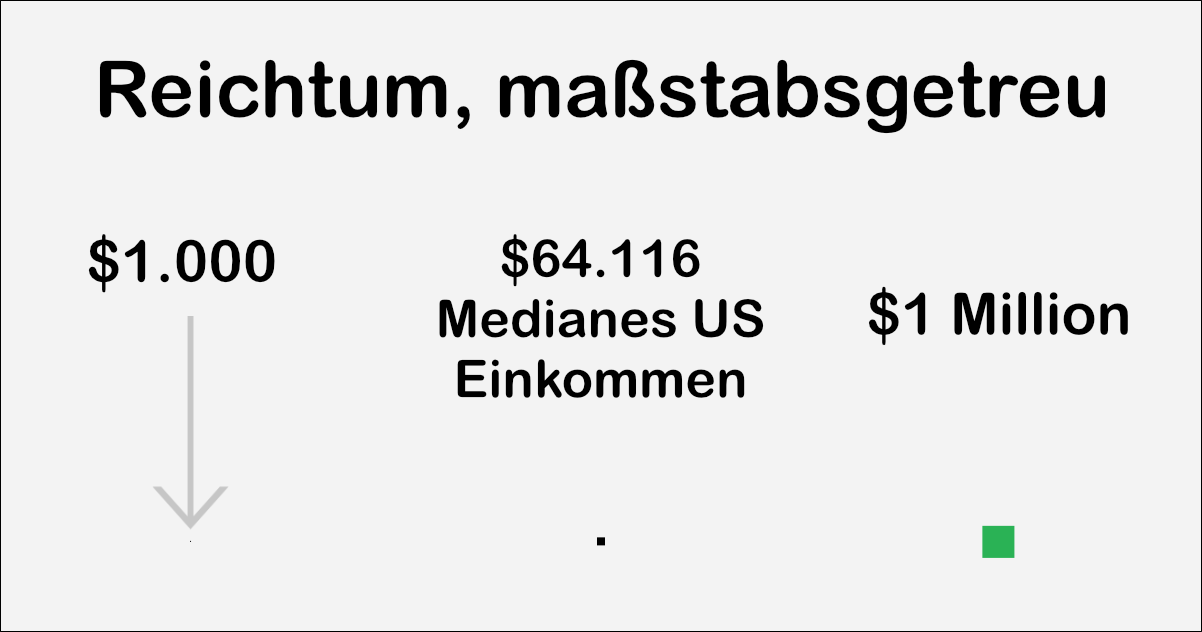
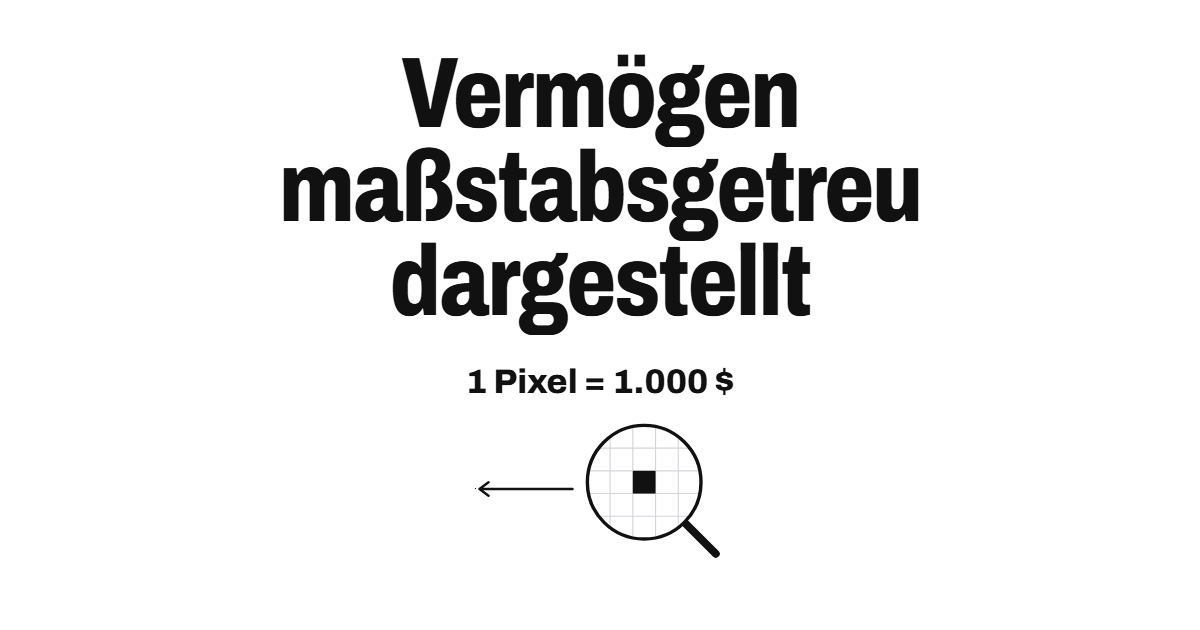
Rename to pixel-wealth, replace Google Analytics, add privacy pages
- Use the new address evolving-thoughts.github.io/pixel-wealth in the
  canonical, Open Graph and Twitter tags, package name and user agent.
- New preview images in the current look (title, 1 pixel = $1,000, lens),
  with matching alt texts.
- Replace Google Analytics, which set cookies without consent, with
  cookieless GoatCounter on the main and sources pages.
- Add privacy pages (privacy.html, de/datenschutz.html), linked from the
  start screen and the sources page. Name and email are still placeholders.
- Rewrite the README: live link, credit, current features and structure,
  notes on the fixed Forbes data and the sources page.

diff --git a/de/datenschutz.html b/de/datenschutz.html
@@ -1,0 +1,43 @@
+<!DOCTYPE html>
+<html lang="de">
+<head>
+  <meta charset="utf-8">
+  <script data-goatcounter="https://evolving-thoughts.goatcounter.com/count" async src="https://gc.zgo.at/count.js"></script>
+  <title>Datenschutz · Reichtum, maßstabsgetreu</title>
+  <meta name="description" content="Datenschutzerklärung von „Reichtum, maßstabsgetreu“." />
+  <meta name="viewport" content="width=device-width, initial-scale=1" />
+  <meta name="robots" content="noindex" />
+  <script>(function(){var t=null;try{t=localStorage.getItem('theme')}catch(e){}if(t!=='dark'&&t!=='light')t=window.matchMedia&&matchMedia('(prefers-color-scheme: dark)').matches?'dark':'light';document.documentElement.setAttribute('data-theme',t)})();</script>
+  <link rel="stylesheet" type="text/css" href="../main.css?version=3.0">
+</head>
+<body class="sources-page">
+<main class="sources privacy">
+  <a class="sources-back" href="./">‹ Zurück zur Seite</a>
+  <h1>Datenschutz</h1>
+
+  <p class="privacy-lead">Kurz gesagt: Diese Seite setzt keine Cookies und erstellt keine Profile. Sie zählt nur, wie oft sie aufgerufen wird, ohne einzelne Besucher wiederzuerkennen.</p>
+
+  <h2 class="sources-h">Verantwortlich</h2>
+  <p>[Name]<br>E-Mail: [E-Mail-Adresse]</p>
+
+  <h2 class="sources-h">Hosting</h2>
+  <p>Die Seite liegt bei GitHub Pages, einem Dienst von GitHub B.V. (Prins Bernhardplein 200, 1097 JB Amsterdam, Niederlande) und GitHub, Inc. (San Francisco, USA). Wenn du die Seite aufrufst, protokolliert GitHub nach eigenen Angaben deine IP-Adresse und speichert sie aus Sicherheitsgründen. Rechtsgrundlage ist das berechtigte Interesse an einem sicheren Betrieb der Seite (Art. 6 Abs. 1 lit. f DSGVO). Daten können dabei in die USA übermittelt werden; GitHub ist dafür nach dem EU-US Data Privacy Framework zertifiziert. Mehr dazu in der <a href="https://docs.github.com/de/site-policy/privacy-policies/github-general-privacy-statement" target="_blank" rel="noopener noreferrer">Datenschutzerklärung von GitHub</a>.</p>
+
+  <h2 class="sources-h">Besucherzählung</h2>
+  <p>Um zu sehen, wie oft die Seite gelesen wird, nutzt sie GoatCounter. Der Dienst wird von Martin Tournoij (Irland) betrieben, die Daten liegen auf Servern von Hetzner in Finnland und Deutschland.</p>
+  <p>Erfasst werden die aufgerufene Seite, die Seite, von der du kommst, Browser und Betriebssystem, Bildschirmbreite, Sprache und das Land, das aus der IP-Adresse abgeleitet wird. GoatCounter speichert keine IP-Adressen, setzt keine Cookies und legt nichts in deinem Browser ab. Um wiederholte Aufrufe zu erkennen, werden Seitenname, IP-Adresse und Browserkennung höchstens 8 Stunden lang im Arbeitsspeicher abgeglichen und nicht dauerhaft gespeichert. Gespeichert werden nur zusammengefasste Zahlen pro Stunde und Tag. Die Daten werden nicht an Dritte weitergegeben.</p>
+  <p>Rechtsgrundlage ist das berechtigte Interesse zu erfahren, wie oft die Seite gelesen und wo sie geteilt wird (Art. 6 Abs. 1 lit. f DSGVO). Mehr dazu in der <a href="https://www.goatcounter.com/help/privacy" target="_blank" rel="noopener noreferrer">Datenschutzerklärung von GoatCounter</a>.</p>
+
+  <h2 class="sources-h">In deinem Browser gespeichert</h2>
+  <p>Wenn du die Sprache oder den Darkmode umstellst, merkt sich die Seite deine Wahl im Speicher deines Browsers (localStorage). Diese Angabe bleibt auf deinem Gerät und wird nicht übertragen. Sie ist nötig, damit die von dir gewählte Einstellung funktioniert (§ 25 Abs. 2 Nr. 2 TDDDG). Du kannst sie jederzeit löschen, indem du die Websitedaten in deinem Browser löschst.</p>
+
+  <h2 class="sources-h">Schrift und Links</h2>
+  <p>Die Schrift liegt auf demselben Server wie die Seite; es gibt keine Verbindung zu Google Fonts oder ähnlichen Diensten. Die Quellenlinks führen zu anderen Websites. Erst wenn du einen davon anklickst, verbindest du dich mit dieser Website, und es gelten deren Datenschutzbestimmungen.</p>
+
+  <h2 class="sources-h">Deine Rechte</h2>
+  <p>Du hast das Recht auf Auskunft, Berichtigung, Löschung und Einschränkung der Verarbeitung deiner Daten sowie das Recht, der Verarbeitung zu widersprechen (Art. 15 bis 21 DSGVO). Wende dich dafür an die oben genannte E-Mail-Adresse. Außerdem kannst du dich bei einer Datenschutz-Aufsichtsbehörde beschweren (Art. 77 DSGVO).</p>
+
+  <p class="sources-calc">Stand: November 2026</p>
+</main>
+</body>
+</html>

diff --git a/privacy.html b/privacy.html
@@ -1,0 +1,43 @@
+<!DOCTYPE html>
+<html lang="en">
+<head>
+  <meta charset="utf-8">
+  <script data-goatcounter="https://evolving-thoughts.goatcounter.com/count" async src="https://gc.zgo.at/count.js"></script>
+  <title>Privacy · Wealth shown to scale</title>
+  <meta name="description" content="Privacy policy of Wealth shown to scale." />
+  <meta name="viewport" content="width=device-width, initial-scale=1" />
+  <meta name="robots" content="noindex" />
+  <script>(function(){var t=null;try{t=localStorage.getItem('theme')}catch(e){}if(t!=='dark'&&t!=='light')t=window.matchMedia&&matchMedia('(prefers-color-scheme: dark)').matches?'dark':'light';document.documentElement.setAttribute('data-theme',t)})();</script>
+  <link rel="stylesheet" type="text/css" href="main.css?version=3.0">
+</head>
+<body class="sources-page">
+<main class="sources privacy">
+  <a class="sources-back" href="./">‹ Back to the page</a>
+  <h1>Privacy</h1>
+
+  <p class="privacy-lead">In short: this page sets no cookies and builds no profiles. It only counts how often it is viewed, without recognising individual visitors.</p>
+
+  <h2 class="sources-h">Responsible</h2>
+  <p>[Name]<br>Email: [email address]</p>
+
+  <h2 class="sources-h">Hosting</h2>
+  <p>The page is hosted on GitHub Pages, a service of GitHub B.V. (Prins Bernhardplein 200, 1097 JB Amsterdam, Netherlands) and GitHub, Inc. (San Francisco, USA). When you visit the page, GitHub says it logs and stores your IP address for security purposes. The legal basis is the legitimate interest in running the page securely (Art. 6(1)(f) GDPR). Data may be transferred to the USA; GitHub is certified under the EU-U.S. Data Privacy Framework for this. More in <a href="https://docs.github.com/en/site-policy/privacy-policies/github-general-privacy-statement" target="_blank" rel="noopener noreferrer">GitHub's privacy statement</a>.</p>
+
+  <h2 class="sources-h">Visitor count</h2>
+  <p>To see how often the page is read, it uses GoatCounter. The service is run by Martin Tournoij (Ireland); the data is stored on Hetzner servers in Finland and Germany.</p>
+  <p>It records the page viewed, the page you came from, browser and operating system, screen width, language, and the country derived from the IP address. GoatCounter does not store IP addresses, sets no cookies and stores nothing in your browser. To recognise repeat views, the site name, IP address and browser identifier are compared in memory for at most 8 hours and are not stored permanently. Only aggregated counts per hour and day are stored. The data is not shared with third parties.</p>
+  <p>The legal basis is the legitimate interest in knowing how often the page is read and where it is shared (Art. 6(1)(f) GDPR). More in <a href="https://www.goatcounter.com/help/privacy" target="_blank" rel="noopener noreferrer">GoatCounter's privacy policy</a>.</p>
+
+  <h2 class="sources-h">Stored in your browser</h2>
+  <p>If you change the language or dark mode, the page remembers your choice in your browser's storage (localStorage). It stays on your device and is never sent anywhere. It is needed for the setting you chose to work (Section 25(2) no. 2 TDDDG). You can delete it at any time by clearing the site data in your browser.</p>
+
+  <h2 class="sources-h">Font and links</h2>
+  <p>The font is served from the same server as the page; there is no connection to Google Fonts or similar services. The source links lead to other websites. Only when you click one do you connect to that website, and its privacy policy applies.</p>
+
+  <h2 class="sources-h">Your rights</h2>
+  <p>You have the right to access, rectify, erase and restrict the processing of your data, and to object to the processing (Art. 15 to 21 GDPR). Contact the email address above. You can also lodge a complaint with a data protection authority (Art. 77 GDPR).</p>
+
+  <p class="sources-calc">As of November 2026</p>
+</main>
+</body>
+</html>

diff --git a/index.html b/index.html
@@ -2,31 +2,24 @@
 <html lang="en">
 <head>
   <meta charset="utf-8">
-  <!-- Google tag (gtag.js) -->
-  <script async src="https://www.googletagmanager.com/gtag/js?id=G-FFHH9GQTXY"></script>
-  <script>
-    window.dataLayer = window.dataLayer || [];
-    function gtag(){dataLayer.push(arguments);}
-    gtag('js', new Date());
-
-    gtag('config', 'G-FFHH9GQTXY');
-  </script>
+  <!-- Visitor count without cookies (GoatCounter) -->
+  <script data-goatcounter="https://evolving-thoughts.goatcounter.com/count" async src="https://gc.zgo.at/count.js"></script>
 
   <title>Wealth, shown to scale</title>
   <meta name="description" content="Global wealth inequality visualized at true scale." />
 
   <meta property="og:title" content="Wealth, shown to scale" />
   <meta property="og:type" content="website" />
-  <meta property="og:url" content="https://evolving-thoughts.github.io/1-pixel-wealth/" />
+  <meta property="og:url" content="https://evolving-thoughts.github.io/pixel-wealth/" />
   <meta property="og:description" content="Global wealth inequality visualized at true scale." />
-  <meta property="og:image" content="https://evolving-thoughts.github.io/1-pixel-wealth/img/og_english.png" />
+  <meta property="og:image" content="https://evolving-thoughts.github.io/pixel-wealth/img/og_english.png" />
   <meta property="og:image:width" content="1200" />
   <meta property="og:image:height" content="630" />
   <meta property="og:image:type" content="image/png" />
-  <meta property="og:image:alt" content="Wealth shown to scale: $1,000, $64,116 median US income, and $1 million compared visually" />
+  <meta property="og:image:alt" content="Wealth shown to scale: 1 pixel = $1,000. A magnifying glass shows a single pixel." />
   <meta name="twitter:card" content="summary_large_image" />
-  <meta name="twitter:image" content="https://evolving-thoughts.github.io/1-pixel-wealth/img/og_english.png" />
-  <link rel="canonical" href="https://evolving-thoughts.github.io/1-pixel-wealth/" />
+  <meta name="twitter:image" content="https://evolving-thoughts.github.io/pixel-wealth/img/og_english.png" />
+  <link rel="canonical" href="https://evolving-thoughts.github.io/pixel-wealth/" />
 
   <script>(function(){var t=null;try{t=localStorage.getItem('theme')}catch(e){}if(t!=='dark'&&t!=='light')t=window.matchMedia&&matchMedia('(prefers-color-scheme: dark)').matches?'dark':'light';document.documentElement.setAttribute('data-theme',t)})();</script>
   <link rel="stylesheet" type="text/css" href="main.css?version=3.0">
@@ -55,7 +48,7 @@
           <svg width="24" height="96" viewBox="0 0 24 96" aria-hidden="true"><path d="M12 0v93M2 83l10 10 10-10" fill="none" stroke="currentColor" stroke-width="2"/></svg>
           <span class="i18n-scroll">scroll</span>
         </div>
-        <p class="inspired-by i18n-inspired-by">inspired by <a href="https://github.com/mkorostoff" target="_blank" rel="noopener noreferrer">mkorostoff</a></p>
+        <p class="inspired-by i18n-inspired-by">inspired by <a href="https://github.com/mkorostoff" target="_blank" rel="noopener noreferrer">mkorostoff</a> · <a href="privacy.html">Privacy</a></p>
       </div>
 
       <!-- Calibration: amount large, description small, equal gaps -->

diff --git a/de/index.html b/de/index.html
@@ -2,30 +2,23 @@
 <html lang="de">
 <head>
   <meta charset="utf-8">
-  <!-- Google tag (gtag.js) -->
-  <script async src="https://www.googletagmanager.com/gtag/js?id=G-FFHH9GQTXY"></script>
-  <script>
-    window.dataLayer = window.dataLayer || [];
-    function gtag(){dataLayer.push(arguments);}
-    gtag('js', new Date());
-
-    gtag('config', 'G-FFHH9GQTXY');
-  </script>
+  <!-- Visitor count without cookies (GoatCounter) -->
+  <script data-goatcounter="https://evolving-thoughts.goatcounter.com/count" async src="https://gc.zgo.at/count.js"></script>
   <title>Reichtum, maßstabsgetreu</title>
   <meta name="description" content="Eine maßstabsgetreue Visualisierung globaler Vermögensungleichheit." />
 
   <meta property="og:title" content="Reichtum, maßstabsgetreu" />
   <meta property="og:type" content="website" />
-  <meta property="og:url" content="https://evolving-thoughts.github.io/1-pixel-wealth/de/" />
+  <meta property="og:url" content="https://evolving-thoughts.github.io/pixel-wealth/de/" />
   <meta property="og:description" content="Eine maßstabsgetreue Visualisierung globaler Vermögensungleichheit." />
-  <meta property="og:image" content="https://evolving-thoughts.github.io/1-pixel-wealth/de/img/og_german.png" />
+  <meta property="og:image" content="https://evolving-thoughts.github.io/pixel-wealth/de/img/og_german.png" />
   <meta property="og:image:width" content="1200" />
   <meta property="og:image:height" content="630" />
   <meta property="og:image:type" content="image/png" />
-  <meta property="og:image:alt" content="Reichtum maßstabsgetreu dargestellt: 1.000 $, 64.116 $ Median-US-Einkommen und 1 Million $ im visuellen Vergleich" />
+  <meta property="og:image:alt" content="Vermögen maßstabsgetreu dargestellt: 1 Pixel = 1.000 $. Eine Lupe zeigt einen einzelnen Pixel." />
   <meta name="twitter:card" content="summary_large_image" />
-  <meta name="twitter:image" content="https://evolving-thoughts.github.io/1-pixel-wealth/de/img/og_german.png" />
-  <link rel="canonical" href="https://evolving-thoughts.github.io/1-pixel-wealth/de/" />
+  <meta name="twitter:image" content="https://evolving-thoughts.github.io/pixel-wealth/de/img/og_german.png" />
+  <link rel="canonical" href="https://evolving-thoughts.github.io/pixel-wealth/de/" />
 
   <script>(function(){var t=null;try{t=localStorage.getItem('theme')}catch(e){}if(t!=='dark'&&t!=='light')t=window.matchMedia&&matchMedia('(prefers-color-scheme: dark)').matches?'dark':'light';document.documentElement.setAttribute('data-theme',t)})();</script>
   <link rel="stylesheet" type="text/css" href="../main.css?version=3.0">

diff --git a/de/i18n_de.js b/de/i18n_de.js
@@ -356,6 +356,7 @@ strings : {
 'i18n-ui-all-sources' : 'Alle Quellen dieser Seite',
 'i18n-ui-sources-title' : 'Quellen',
 'i18n-ui-sources-back' : 'Zurück zur Seite',
+'i18n-ui-privacy' : 'Datenschutz',
 'i18n-ui-sources-wealth' : 'Vermögen',
 'i18n-ui-sources-wealth-text' : '{source}, Stand {date}. {count} Milliardäre, zusammen {total}.',
 'i18n-ui-sources-messages' : 'Belege zu den Nachrichten',
@@ -368,7 +369,7 @@ strings : {
 'i18n-ui-browser-broke' : '<span class="step-hd">Selbst dein Browser kann so viel Geld nicht verarbeiten!</span>Du hast ~<strong>{pctReached}</strong> ihres Vermögens durchgescrollt, und dein Gerät hat sein Limit erreicht. Die verbleibenden <strong>{pctRemaining}</strong> (etwa <strong>{remainingFormatted}</strong>) können einfach nicht dargestellt werden.<br><br>{totalFormatted}: eine Zahl, die zu groß für deinen Browser ist. Aber nicht zu groß für {billionaireCount} Milliardäre.',
 
 // ─── Ticker group names ─────────────────────────────────────────────
-'i18n-inspired-by' : 'inspiriert von <a href="https://github.com/mkorostoff" target="_blank" rel="noopener noreferrer">mkorostoff</a>',
+'i18n-inspired-by' : 'inspiriert von <a href="https://github.com/mkorostoff" target="_blank" rel="noopener noreferrer">mkorostoff</a> · <a href="datenschutz.html">Datenschutz</a>',
 
 // ─── Ticker group names ─────────────────────────────────────────────
 'i18n-ticker-group-infectious-diseases' : 'Infektionskrankheiten',

diff --git a/sources.js b/sources.js
@@ -118,6 +118,7 @@
           return '<li><a href="' + esc(o.url) + '" target="_blank" rel="noopener noreferrer">' + esc(o.name) + '</a>' + (o.note ? ' <span class="sources-host">' + esc(o.note) + '</span>' : '') + '</li>';
         }).join('') + '</ul>';
     }
+    html += '<p class="sources-foot"><a href="' + (isDe ? 'datenschutz.html' : 'privacy.html') + '">' + esc(ui('privacy', 'Privacy')) + '</a></p>';
     root.innerHTML = html;
   }
 

diff --git a/de/sources.html b/de/sources.html
@@ -2,6 +2,7 @@
 <html lang="de">
 <head>
   <meta charset="utf-8">
+  <script data-goatcounter="https://evolving-thoughts.goatcounter.com/count" async src="https://gc.zgo.at/count.js"></script>
   <title>Reichtum, maßstabsgetreu</title>
   <meta name="description" content="Alle Quellen von „Reichtum, maßstabsgetreu“." />
   <meta name="viewport" content="width=device-width, initial-scale=1" />

diff --git a/sources.html b/sources.html
@@ -2,6 +2,7 @@
 <html lang="en">
 <head>
   <meta charset="utf-8">
+  <script data-goatcounter="https://evolving-thoughts.goatcounter.com/count" async src="https://gc.zgo.at/count.js"></script>
   <title>Wealth shown to scale</title>
   <meta name="description" content="All sources used on Wealth shown to scale." />
   <meta name="viewport" content="width=device-width, initial-scale=1" />

diff --git a/main.css b/main.css
@@ -2069,6 +2069,18 @@ h1 {
 [data-theme="dark"] .sources-list li {
   border-top-color: #333;
 }
+.privacy p {
+  margin: 0 0 10px;
+}
+.privacy .privacy-lead {
+  font-size: 17px;
+  font-weight: 700;
+  margin-bottom: 4px;
+}
+.sources-foot {
+  margin-top: 32px;
+  font-size: 13px;
+}
 .sources-calc {
   margin: 6px 0 0;
   font-size: 13.5px;

diff --git a/README.md b/README.md
@@ -1,62 +1,68 @@
-# 1 Pixel Wealth
+# Pixel Wealth
 
-A scrollytelling web experience that visualizes wealth at true scale.
+A scrollytelling web experience that visualizes wealth at true scale: one pixel is $1,000.
 
-The page combines static markup, CSS, and vanilla JavaScript with story/content data from JSON files.
+**Live:** https://evolving-thoughts.github.io/pixel-wealth/ ([German version](https://evolving-thoughts.github.io/pixel-wealth/de/))
+
+Inspired by "1 Pixel Wealth" by [Matt Korostoff](https://github.com/mkorostoff).
+
+The page combines static markup, CSS, and vanilla JavaScript with story/content data from JSON files. There is no build step and there are no dependencies.
 
 ## Features
 
 - True-scale wealth bars with segmented rendering for very large heights
-- Dynamic story rendering from data/story.json
-- Dynamic billionaire data loading from data/billionaires.json
-- German locale scaffold under de/
-- Optional local development server and data refresh script
+- Story rendered from data/story.json, with a small picture for most comparisons
+- Chapters that show which share of all billionaire wealth the causes so far would cost
+- Death ticker that counts, in real time, the deaths from the causes on the page while you read
+- Data date on the start screen
+- Sources page with every figure, its source and an explanation of any extrapolation
+- English and German versions
+- Dark mode (follows the system setting by default, with a switch on the start screen)
+- Respects reduced motion settings
 
 ## Project Structure
 
 - index.html: Main page shell
-- main.js: Rendering, data loading, comparisons, counters, and ticker logic
-- main.css: Layout and visual styling
-- data/story.json: Story narrative and comparison/cause definitions
+- main.js: Rendering, data loading, comparisons, counters, ticker and theme logic
+- main.css: Layout and visual styling, including dark mode
+- viz.js: Pictures for the individual comparisons
+- data/story.json: Story narrative, comparison/cause definitions and calculation notes
 - data/billionaires.json: Wealth data used for the bars and totals
-- de/index.html: German entry page
+- sources.html, sources.js: Sources page, built from data/story.json
+- privacy.html, de/datenschutz.html: Privacy policy
+- de/index.html, de/sources.html: German entry pages
 - de/i18n_de.js: German translation dictionary
 - i18n.js: Locale page translation loader
+- fonts/: Archivo, self-hosted (SIL Open Font License, see fonts/OFL.txt)
+- img/, de/img/: Preview images for sharing
 - scripts/fetch-billionaires.mjs: Script to refresh billionaire data
-
-## Requirements
-
-- Node.js 18+ recommended
-- npm
 
 ## Local Development
 
-1. Install dependencies:
-
-```bash
-npm install
-```
-
-2. Start a local web server:
+Requires Node.js 18+ (only to run a local server).
 
 ```bash
 npm run serve
 ```
 
-3. Open:
+Then open:
 
 - http://localhost:8080/
 - http://localhost:8080/de/
 
-## Update Wealth Data
+## Wealth Data
 
-Run:
+The page currently uses the fixed **Forbes World's Billionaires 2026 annual list (as of March 10, 2026)**. The daily update workflow in .github/workflows/daily-wealth-update.yml is switched off.
 
 ```bash
 npm run update:wealth
 ```
 
-This updates data/billionaires.json from the source configured in scripts/fetch-billionaires.mjs.
+Note: this script fetches Forbes' **real-time** list and overwrites data/billionaires.json, replacing the fixed annual figures. The texts on the page refer to the annual list, so only run it if you want to switch to live data.
+
+## Sources
+
+Every figure on the page links to its source. The sources page (sources.html, German: de/sources.html) lists them all in one place, together with explanations of calculations such as yearly costs extrapolated to 2030 or shares of the world population.
 
 ## i18n Notes
 

diff --git a/PRODUCT.md b/PRODUCT.md
@@ -10,7 +10,7 @@ web
 Broad general public, arriving mostly via shared links and social media, often on a phone. They are curious, not experts, and want a felt sense of how extreme billionaire wealth is, not a data table.
 
 ## Product Purpose
-1 Pixel Wealth is a scrollytelling page that visualizes wealth at true scale. Success is that a visitor leaves with an intuitive, physical sense of the size of billionaire fortunes compared with everyday amounts, by scrolling through them.
+Pixel Wealth is a scrollytelling page that visualizes wealth at true scale. Success is that a visitor leaves with an intuitive, physical sense of the size of billionaire fortunes compared with everyday amounts, by scrolling through them.
 
 ## Positioning
 The scale is literal and constant: 1 square pixel = $1,000 (`DOLLARS_PER_PIXEL = 1000` in main.js). Bar height is `wealth / (barWidth * DOLLARS_PER_PIXEL)`, so scroll distance varies with the viewport-driven bar width while the area-to-dollar ratio never changes. The scroll distance itself conveys the magnitude, so no chart, tooltip or statistic can replace it.
